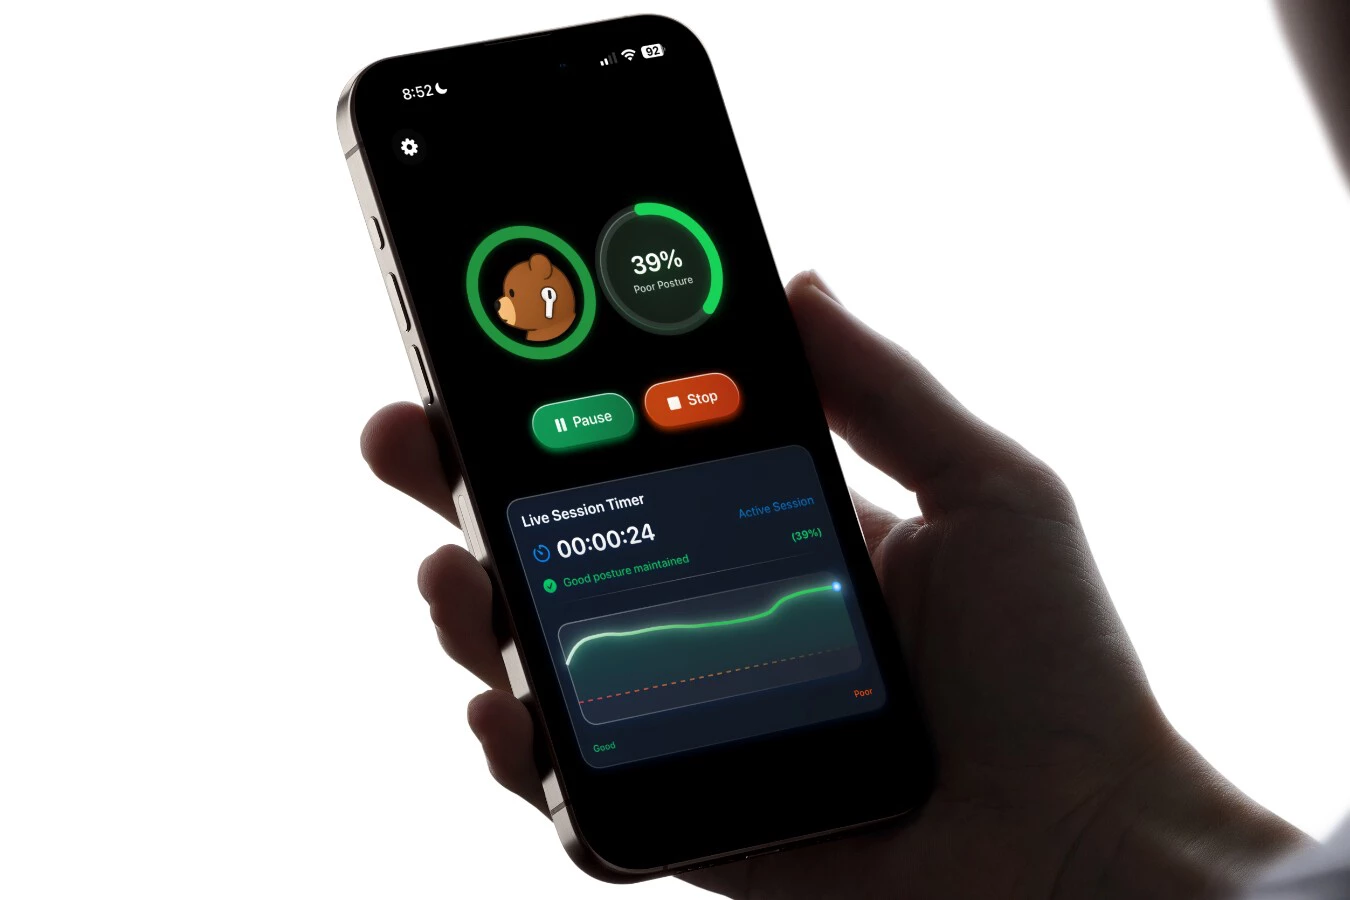
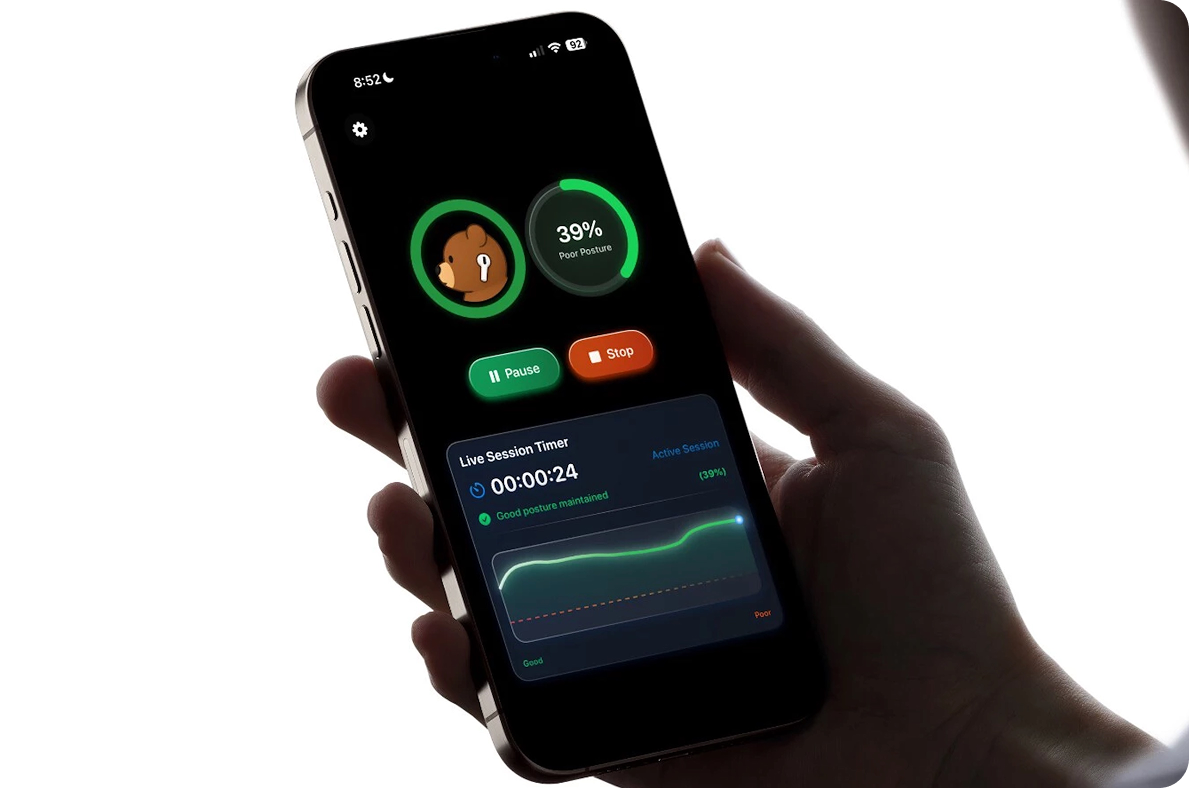
Update README.md

diff --git a/README.md b/README.md
@@ -10,21 +10,17 @@
 <div align="center">
     <img src="App-Assets/air-ban.png" alt="AirPosture banner" width="700" />
 </div>
-<div align="center">
-    <img src="App-Assets/air.gif" alt="AirPosture demo animation" width="700" />
-</div>
-
 ---
 
-
+- **Intro**: An iOS app turns your AirPods into a real-time posture coach — giving you gentle nudges to sit better, move more, and reduce neck strain throughout the day.
 - **Supported Devices** - AirPods Pro (all generations), AirPods (3rd generation and later), AirPods Max, and compatible Beats earphones that support spatial audio with dynamic head tracking. 
 - **iOS Testflight**: [Download link](https://testflight.apple.com/join/ATvtBUZH)
 - **Website**: [https://airposture.github.io](https://airposture.github.io/)
 - **Follow on [X](https://x.com/allenleexyz)**
+- **Email**: [email redacted]
 
 
   
-
 ---
 
 ## AirPosture is Now Fully Open Source
@@ -34,6 +30,11 @@ When I started building AirPosture, I wasn't trying to create another subscripti
 I simply wanted a tool that could help people improve their posture using the devices they already wear every day.
 
 Since the beta launch, AirPosture has been used in over 100,000 sessions by people around the world. Seeing that response forced me to rethink why I was building this project in the first place.
+
+<div align="center">
+    <img src="App-Assets/air.gif" alt="AirPosture demo animation" width="700" />
+</div>
+
 
 The original plan was to keep developing AirPosture as a commercial product and open source it after version 1.0. But over time, I realized the thing I care about most is not maximizing revenue—it's helping as many people as possible build healthier habits.
 
@@ -47,18 +48,39 @@ Rather than fighting those people behind closed doors, I've decided to make the 
 
 So today, I'm open sourcing the entire AirPosture codebase.
 
-If AirPosture helps even a small number of people sit better, move better, and feel better, then it has already succeeded.
-
-Thank you to everyone who tested the beta, shared feedback, reported bugs, and supported the project from the beginning.
+If AirPosture helps even a small number of people sit better, move better, and feel better, then it has already succeeded. Thank you to everyone who tested the beta, shared feedback, reported bugs, and supported the project from the beginning.
 
 — Allen Lee
 
 ---
 
+## Where AirPosture Is Going
+
+### macOS
+
+<div align="center">
+    <img src="App-Assets/notch.png" alt="AirPosture demo animation" width="700" />
+</div>
+
+<div align="center">
+    <img src="App-Assets/mac-ui.png" alt="AirPosture demo animation" width="700" />
+</div>
+
+### Auto-Activity Switching
+
+<div align="center">
+    <img src="App-Assets/auto.png" alt="AirPosture demo animation" width="700" />
+</div>
+
+AirPods now include richer motion and medical-grade heart rate sensors, and Apple’s MLX framework enables private, low-latency AI models on iOS without cloud delays or privacy compromises.
+
+
+---
+
+## Docs
+
 - **⚠️ Setup (WIP):** See [TOC.md](TOC.md) for prerequisites, configuration, and build instructions.
-
-- **⚠️ Future (WIP):** Check [Future.md](Future.md).
-
+- **⚠️ Contribute (WIP):** 
 
 ---
 

diff --git a/Future.md b/Future.md
@@ -4,25 +4,9 @@
 
 ## Where AirPosture Is Going
 
-**Sensors + AI**
-
-<div align="center">
-    <img src="App-Assets/auto.jpeg" alt="AirPosture banner" width="700" />
-</div>
-
-AirPods now include richer motion and medical-grade heart rate sensors, and Apple’s MLX framework enables private, low-latency AI models on iOS without cloud delays or privacy compromises.
 
 
-**IR Camera (Late 2026 maybe?)**
 
-<div align="center">
-    <img src="App-Assets/ir2.jpeg" alt="AirPosture banner" width="700" />
-</div>
-
-
-Looking ahead, top sources (Bloomberg), 郭明錤 (Ming-Chi Kuo), 9to5mac all suggest next-gen AirPods may include infrared (IR) cameras in 2026. This could unlock an entirely new posture ecosystem, using IR scanning through the ear to capture precise body alignment in real time.
-
-This combination of rapidly expanding user base, advanced health sensors, and emerging IR technology makes today the perfect moment for AirPosture.
 
 **macOS**
 